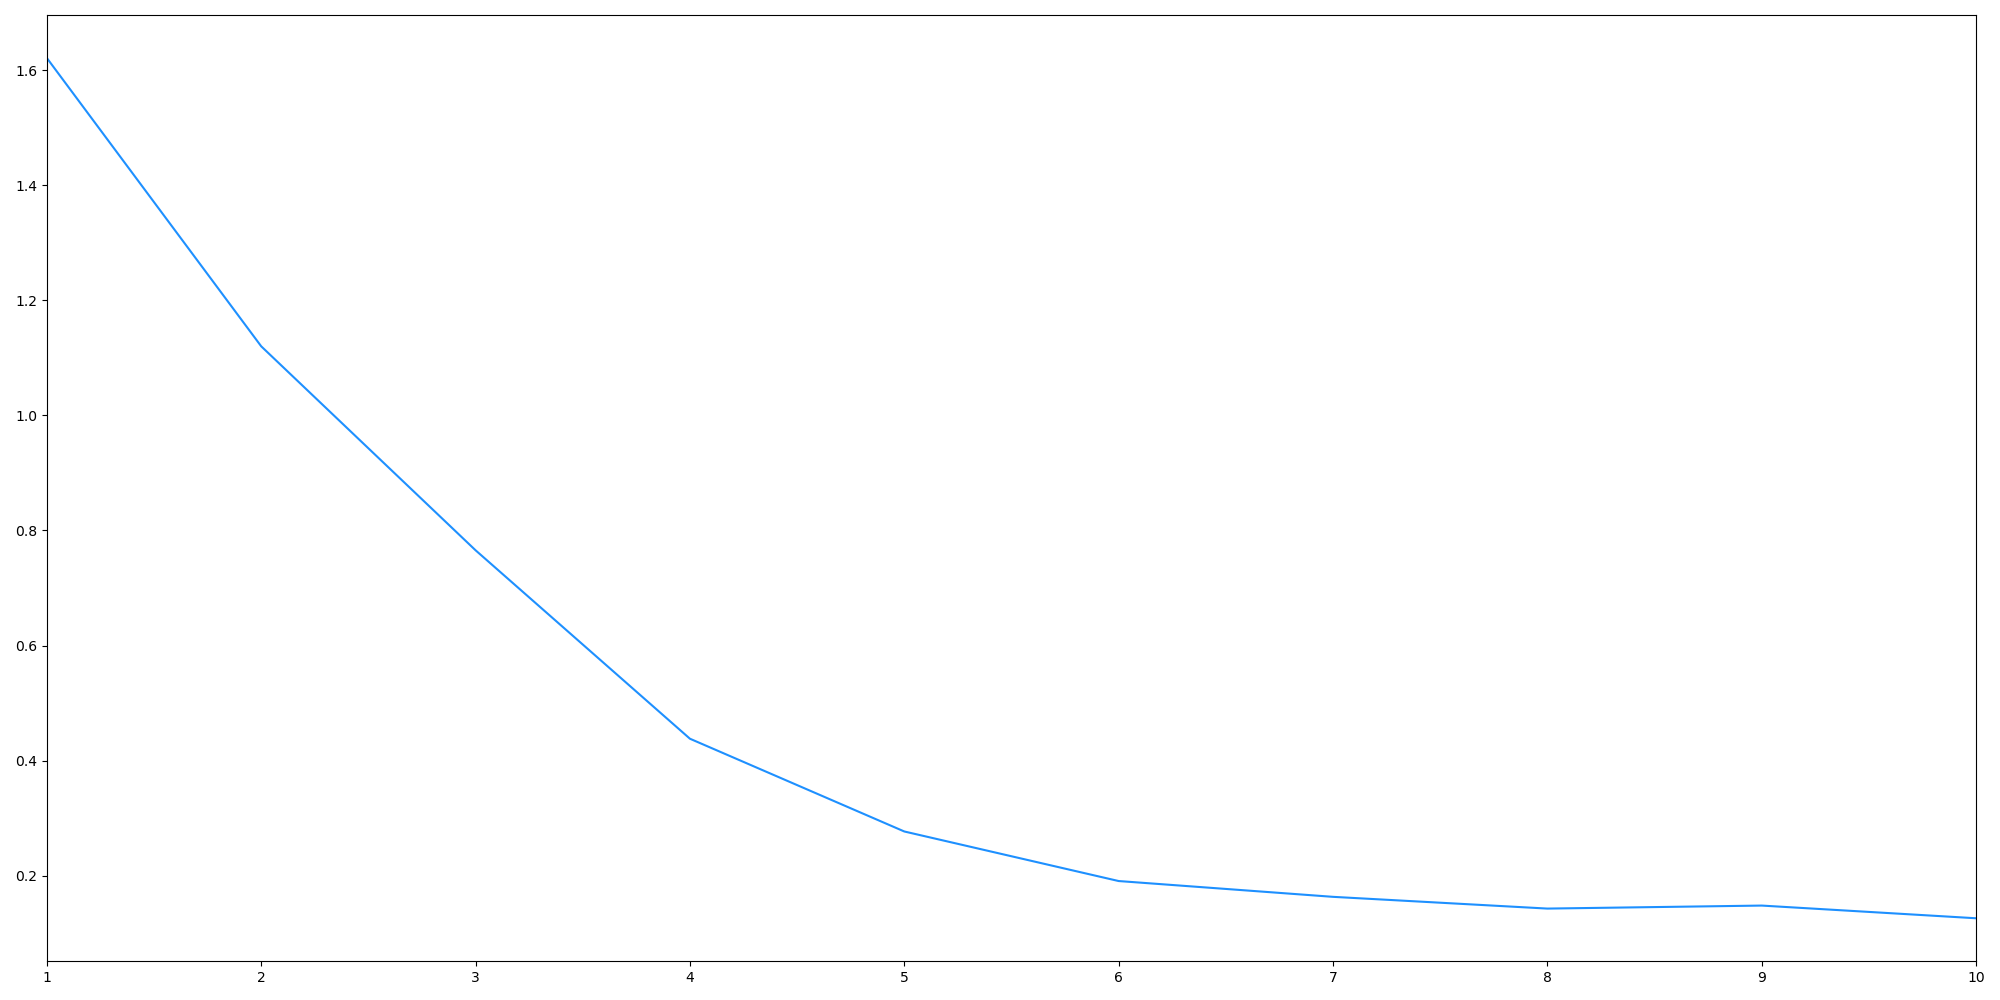
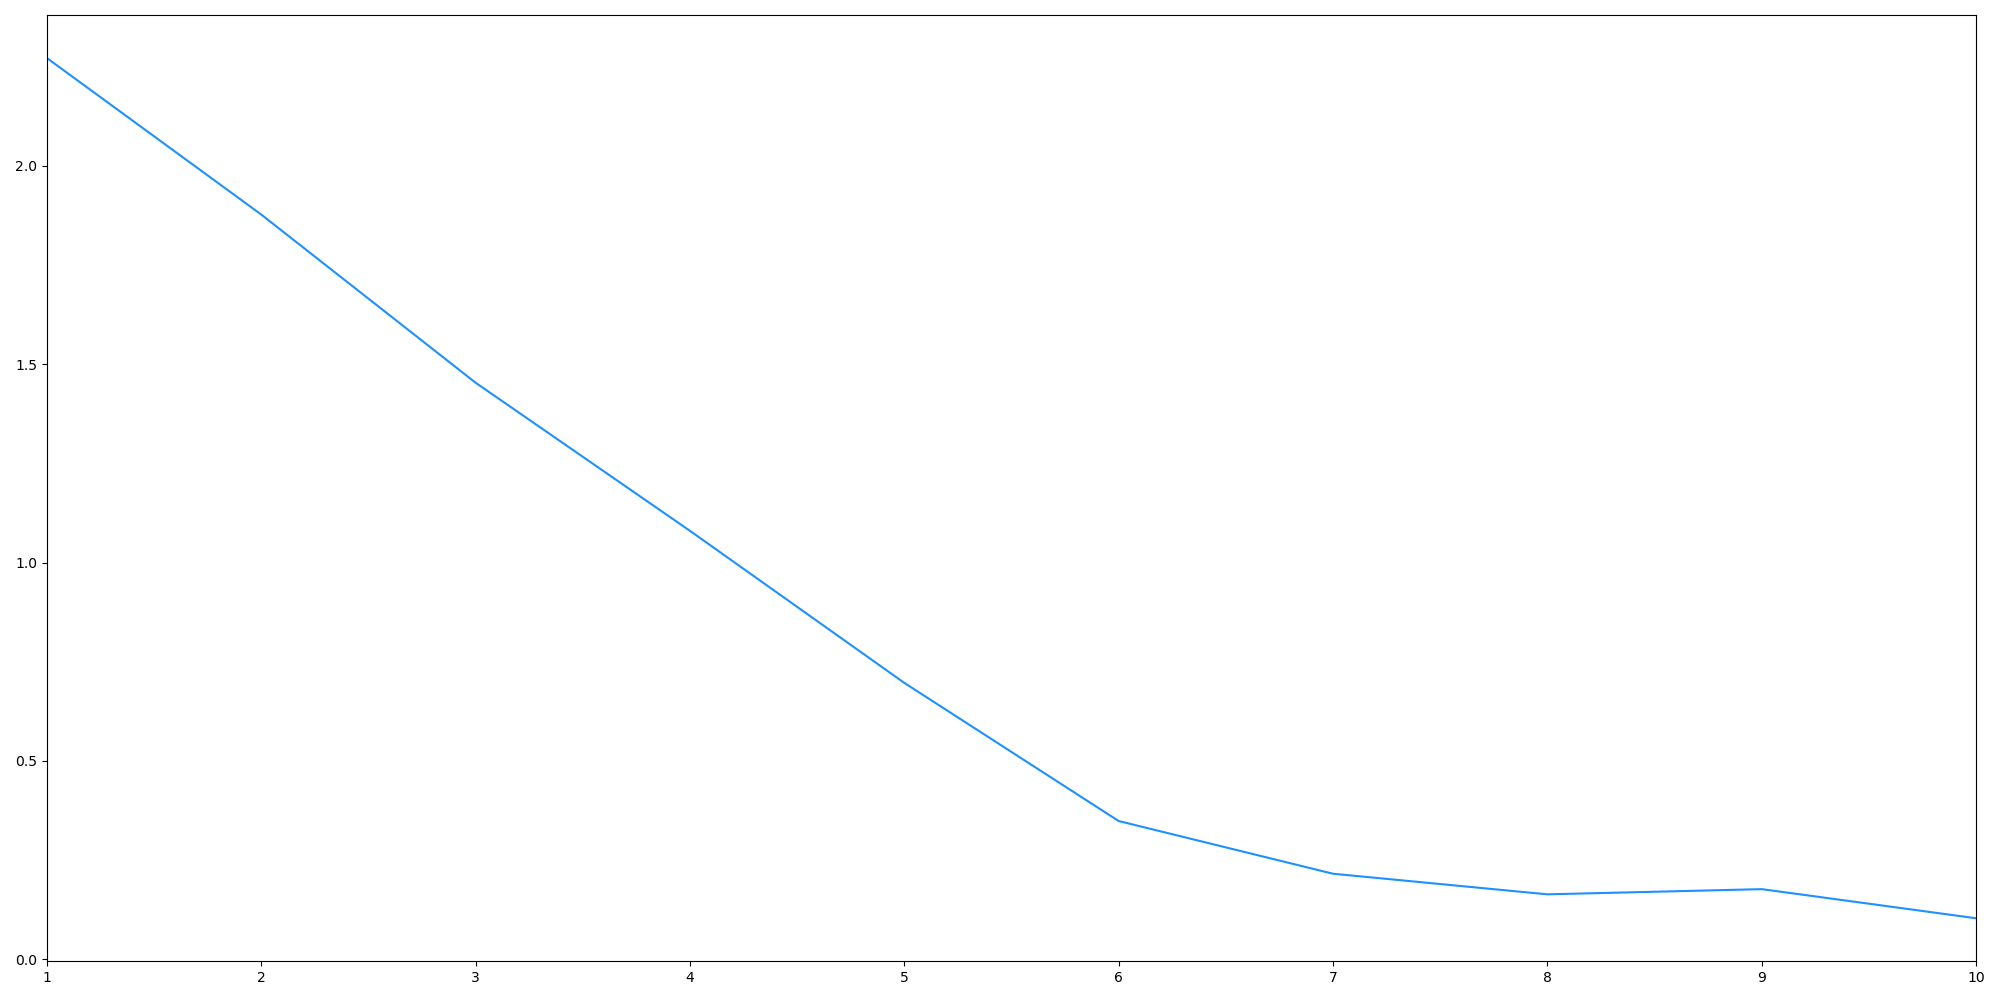
Imbalance weights.

Changed region(s): [[0.899, 0.899, 0.992, 0.93], [0.651, 0.868, 0.713, 0.899], [0.031, 0.093, 0.062, 0.124]]

diff --git a/mmIMDb_3_extract.py b/mmIMDb_3_extract.py
@@ -28,17 +28,19 @@ datasets = [
     ["Crime", "Documentary", "Fantasy", "Sci-Fi"],
     ["Animation", "Biography", "History", "Music", "War"],
     ["Film-Noir", "Musical", "News", "Short", "Sport", "Western"],
-    ['Action', 'Adventure', 'Comedy', 'Crime',
-    'Documentary', 'Drama', 'Family', 'Fantasy', 'Horror',
-    'Music', 'Musical', 'Mystery', 'Romance', 'Sci-Fi',
-    'Short', 'Thriller', 'Western'],
+    ['Action', 'Comedy', 'Crime',
+    'Documentary', 'Drama', 'Horror', 'Mystery', 'Romance', 'Sci-Fi'],
+    # ['Action', 'Adventure', 'Comedy', 'Crime',
+    # 'Documentary', 'Drama', 'Family', 'Fantasy', 'Horror',
+    # 'Music', 'Musical', 'Mystery', 'Romance', 'Sci-Fi',
+    # 'Short', 'Thriller', 'Western'],
 ]
 
 for dataset_id, dataset in tqdm(enumerate(datasets)):
-    if dataset_id == (len(datasets)-1):
-        dataset_name = "all"
-    else:
-        dataset_name = "".join([genre[0] for genre in dataset])
+    # if dataset_id == (len(datasets)-1):
+    #     dataset_name = "all"
+    # else:
+    dataset_name = "".join([genre[0] for genre in dataset])
     print(dataset_name)
     X_img = np.load("data_npy/mmIMDb/mmIMDb_%s_img.npy" % dataset_name)
     X_txt = np.load("data_npy/mmIMDb/mmIMDb_%s_txt.npy" % dataset_name)
@@ -67,7 +69,10 @@ for dataset_id, dataset in tqdm(enumerate(datasets)):
 
     params_to_update = model.parameters()
     optimizer = optim.SGD(params_to_update, lr=0.001, momentum=0.9)
-    criterion = nn.CrossEntropyLoss()
+    _, counts = np.unique(y_train, return_counts=True)
+    weights = from_numpy(np.array([1-(count/np.sum(counts)) for count in counts])).float().to(device)
+    print(weights)
+    criterion = nn.CrossEntropyLoss(weight=weights)
 
     dataset_ready = TensorDataset(from_numpy(np.moveaxis(X_img_train, 3, 1)).float(), from_numpy(y_train).long())
     data_loader = DataLoader(dataset_ready, batch_size=batch_size, shuffle=True)

diff --git a/mmIMDb_2_divide.py b/mmIMDb_2_divide.py
@@ -23,18 +23,20 @@ datasets = [
     ["Crime", "Documentary", "Fantasy", "Sci-Fi"],
     ["Animation", "Biography", "History", "Music", "War"],
     ["Film-Noir", "Musical", "News", "Short", "Sport", "Western"],
-    ['Action', 'Adventure', 'Comedy', 'Crime',
-    'Documentary', 'Drama', 'Family', 'Fantasy', 'Horror',
-    'Music', 'Musical', 'Mystery', 'Romance', 'Sci-Fi',
-    'Short', 'Thriller', 'Western'],
+    ['Action', 'Comedy', 'Crime',
+    'Documentary', 'Drama', 'Horror', 'Mystery', 'Romance', 'Sci-Fi'],
+    # ['Action', 'Adventure', 'Comedy', 'Crime',
+    # 'Documentary', 'Drama', 'Family', 'Fantasy', 'Horror',
+    # 'Music', 'Musical', 'Mystery', 'Romance', 'Sci-Fi',
+    # 'Short', 'Thriller', 'Western'],
 ]
 
 for dataset_id, dataset in enumerate(datasets):
     print("\n", dataset)
-    if dataset_id == (len(datasets)-1):
-        dataset_name = "all"
-    else:
-        dataset_name = "".join([genre[0] for genre in dataset])
+    # if dataset_id == (len(datasets)-1):
+    #     dataset_name = "all"
+    # else:
+    dataset_name = "".join([genre[0] for genre in dataset])
         
     genres_columns = np.array([np.argwhere(all_genres == genre)[0] for genre in dataset]).flatten()
     select = np.sum(y[:, genres_columns], axis=1)
@@ -51,6 +53,7 @@ for dataset_id, dataset in enumerate(datasets):
     print(dataset_X_img.shape)
     print(dataset_X_txt.shape)
     print(label_encoded_dataset_y.shape)
+    print(np.unique(label_encoded_dataset_y, return_counts=True))
     
     np.save("data_npy/mmIMDb/mmIMDb_%s_img" % dataset_name, np.array(dataset_X_img))
     np.save("data_npy/mmIMDb/mmIMDb_%s_txt" % dataset_name, np.array(dataset_X_txt))

diff --git a/kinetics400_2_extract.py b/kinetics400_2_extract.py
@@ -41,7 +41,11 @@ for dataset_id, dataset in enumerate(dataset_names):
 
         params_to_update = model.parameters()
         optimizer = optim.SGD(params_to_update, lr=0.001, momentum=0.9)
-        criterion = nn.CrossEntropyLoss()
+        _, counts = np.unique(y_train, return_counts=True)
+        weights = from_numpy(np.array([1-(count/np.sum(counts)) for count in counts])).float().to(device)
+        print(weights)
+        # criterion = nn.CrossEntropyLoss()
+        criterion = nn.CrossEntropyLoss(weight = weights)
 
         dataset_ready = TensorDataset(from_numpy(np.moveaxis(X_train, 3, 1)).float(), from_numpy(y_train).long())
         data_loader = DataLoader(dataset_ready, batch_size=batch_size, shuffle=True)
@@ -96,8 +100,8 @@ for dataset_id, dataset in enumerate(dataset_names):
             
         all_extracted = np.vstack(tuple(all_extracted))
         
-        np.save("data_extracted/kinetics400/kinetics400_%s_%s" % (modality, dataset_names[dataset_id]), all_extracted)
-    np.save("data_extracted/kinetics400/kinetics400_y_%s" % dataset_names[dataset_id], y_extract)
-    np.save("data_extracted/kinetics400/kinetics400_ids_%s" % dataset_names[dataset_id], ids_extract)
+        np.save("data_extracted/kinetics400/weighted_kinetics400_%s_%s" % (modality, dataset_names[dataset_id]), all_extracted)
+    np.save("data_extracted/kinetics400/weighted_kinetics400_y_%s" % dataset_names[dataset_id], y_extract)
+    np.save("data_extracted/kinetics400/weighted_kinetics400_ids_%s" % dataset_names[dataset_id], ids_extract)
         
     print("\n")
